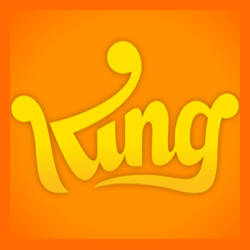
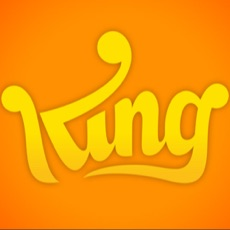
Let's get this working!

diff --git a/_sass/_layout.scss b/_sass/_layout.scss
@@ -207,11 +207,9 @@ height: 230px;
 overflow: hidden;
 }
 .thumbnail img{
-width: 500px;
+width: 230px;
 height: auto;
 position: relative;
-left: -25%;
-top: -5%;
 }
 .thumbnail a{
 float: left;
